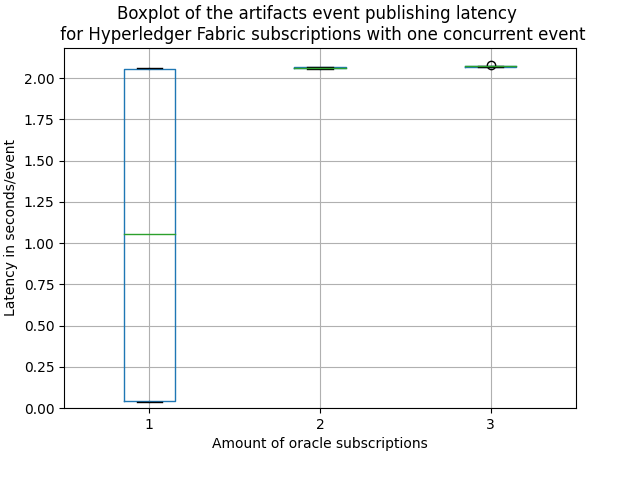
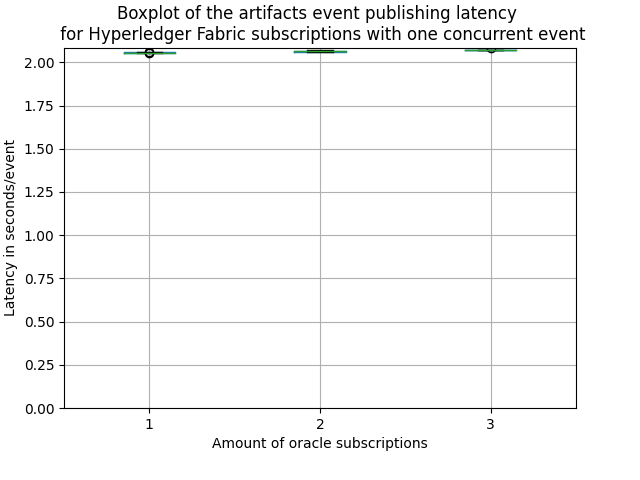
modified test result graphic

diff --git a/caseStudies/visualizePerformanceTestResults.py b/caseStudies/visualizePerformanceTestResults.py
@@ -82,7 +82,7 @@ def main():
     plt.ylim(ymin=0)
     plt.savefig(file_path[:-4]+"Latency.png")
 
-    df = read_merged_files(file_paths[3:7])
+    df = read_merged_files(file_paths[3:6])
     df = df[df["parallel events"] == 1]
     df.boxplot(column="latency", by="subscriptions")
     plt.title("Boxplot of the artifacts event publishing latency \n for Hyperledger Fabric subscriptions with one concurrent event")
